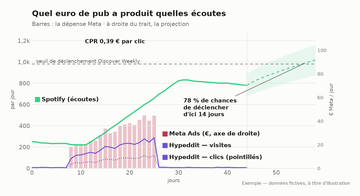
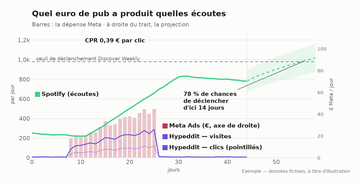
R438 : figures d'exemple ramenées à la même hauteur (0,511–0,513) — la bande Shazam et l'axe de droite avaient décalé le rapport hauteur/largeur, rouge en CI

diff --git a/tools/dev/make_example_charts.py b/tools/dev/make_example_charts.py
@@ -183,7 +183,7 @@ def dashboard_global() -> Path:
     shazam = np.clip(18 + days * 0.42 + rng.normal(0, 4, 90).cumsum() * 0.35, 4, None)
 
     fig, (ax, axs) = plt.subplots(
-        2, 1, figsize=(9, 4.9), sharex=True,
+        2, 1, figsize=(9, 4.38), sharex=True,
         gridspec_kw={"height_ratios": [4.2, 1], "hspace": 0.12})
     ax.stackplot(days, *series.values(), colors=colours,
                  # 2 px surface gap between stacked fills — the segments must not
@@ -318,7 +318,7 @@ def meta_x_s4a() -> Path:
     # axes partent de ZÉRO — le seul réglage qui empêche d'inventer une corrélation
     # en choisissant où épingler une échelle. Le CPR est un RATIO : il est ÉCRIT,
     # pas tracé, comme la probabilité.
-    fig, ax = plt.subplots(figsize=(9, 4.4))
+    fig, ax = plt.subplots(figsize=(9, 4.06))
     axe = ax.twinx()
     ax.set_zorder(axe.get_zorder() + 1)
     ax.patch.set_visible(False)
